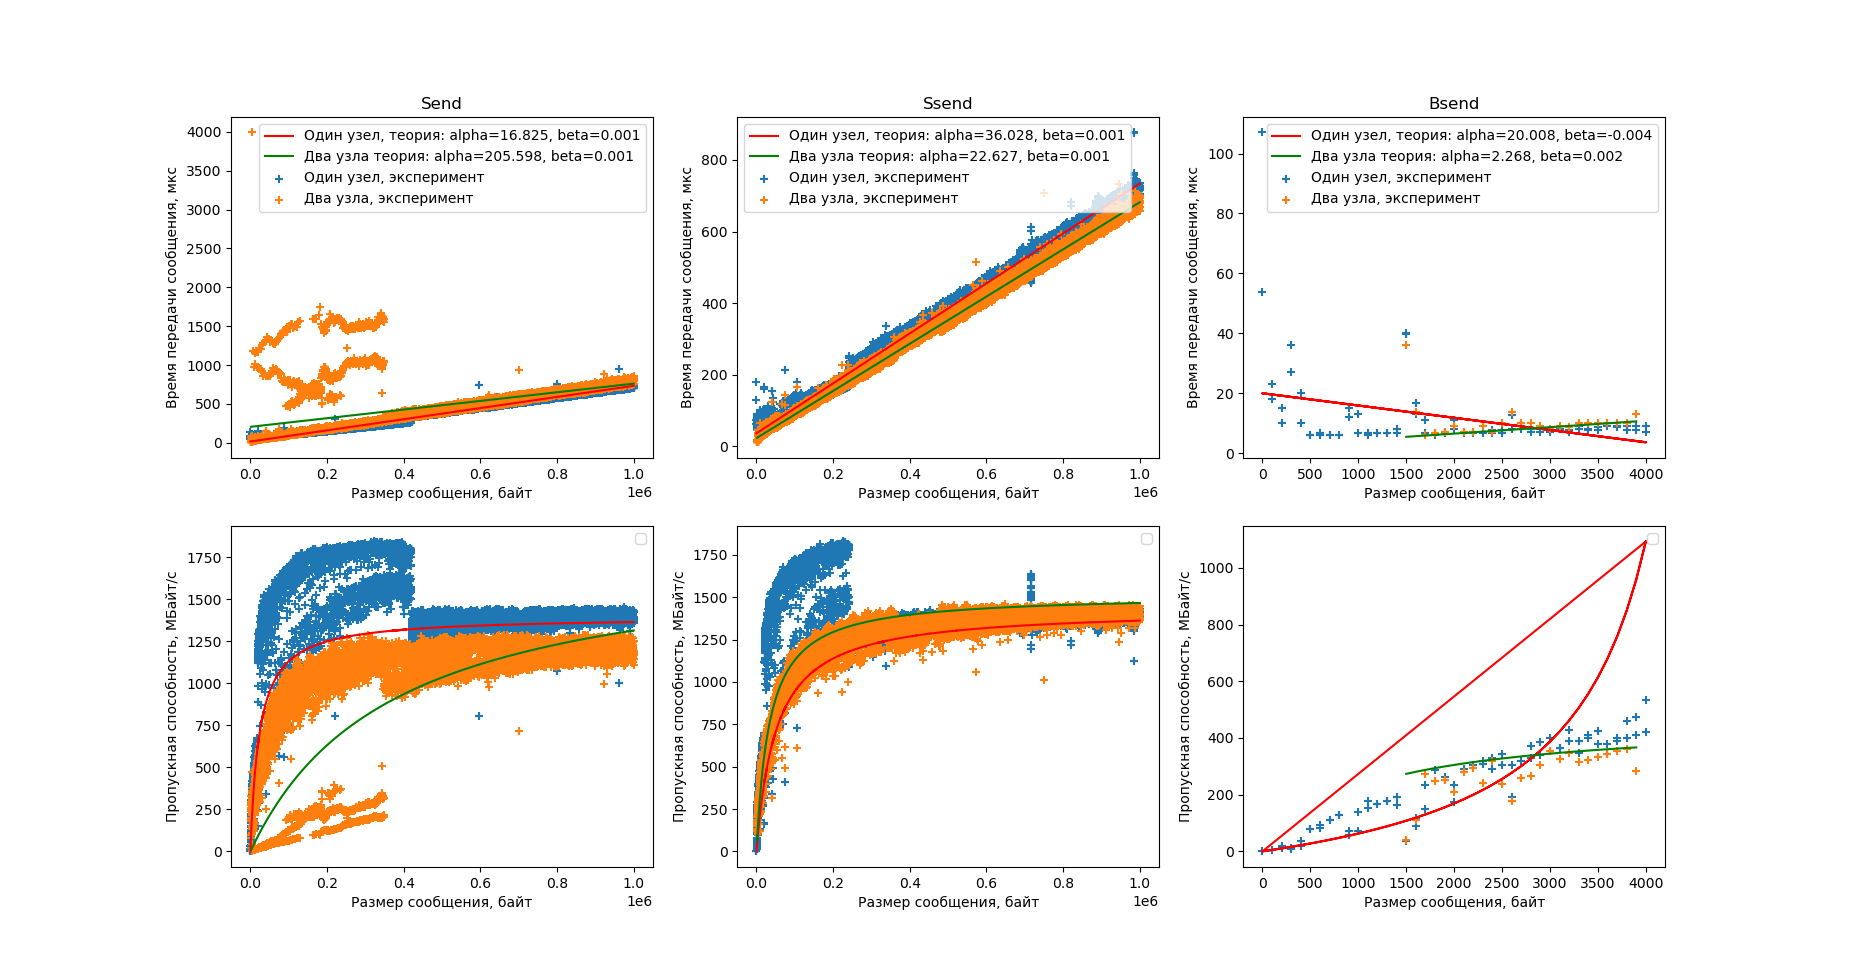
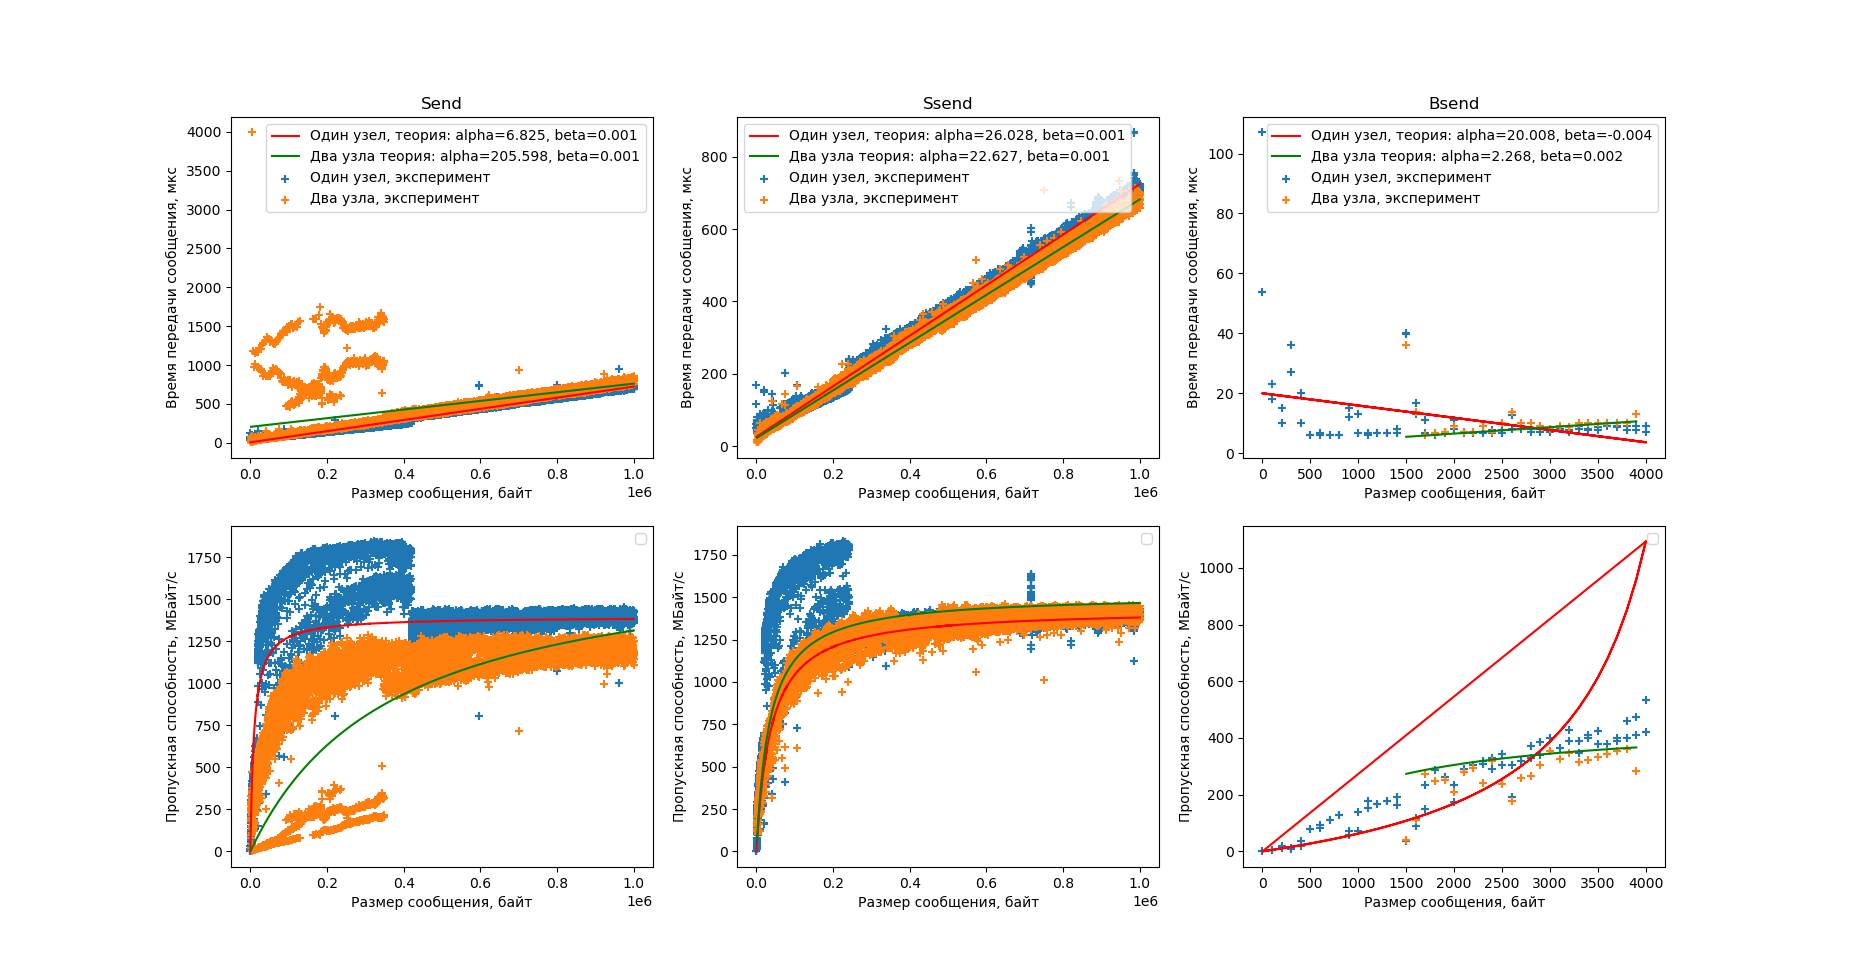
correct png fig

diff --git a/bandwidth/plot.py b/bandwidth/plot.py
@@ -28,7 +28,7 @@ for i in range(3):
     y1JC = y1J.copy()[before:-1]
 
     if sendType[i] == 'Send' or sendType[i] == 'Ssend':
-        y1I += 40
+        y1I += 30
 
     y2I = np.array(stateI['bandwidth'])
     y2J = np.array(stateJ['bandwidth'])[before:-1]
